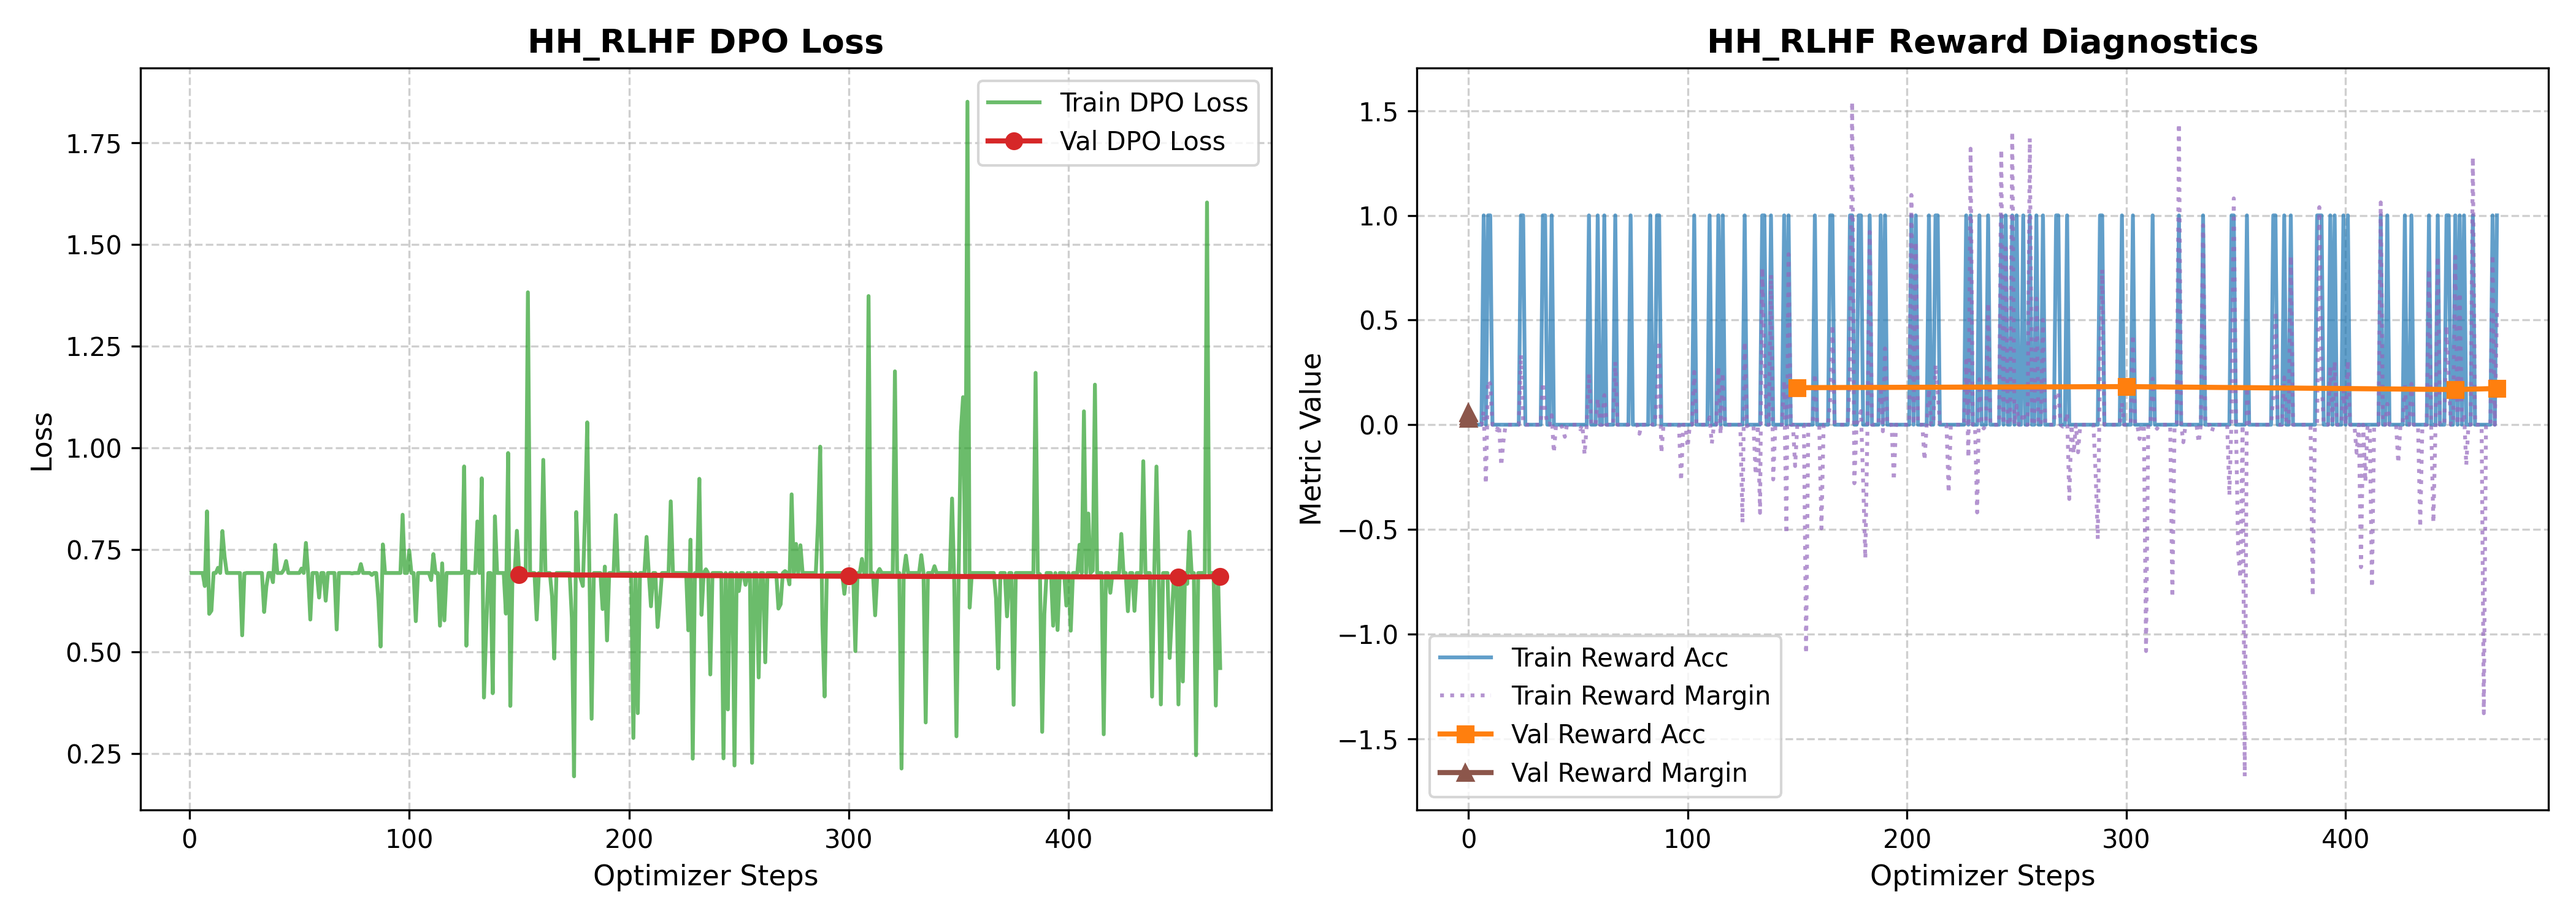
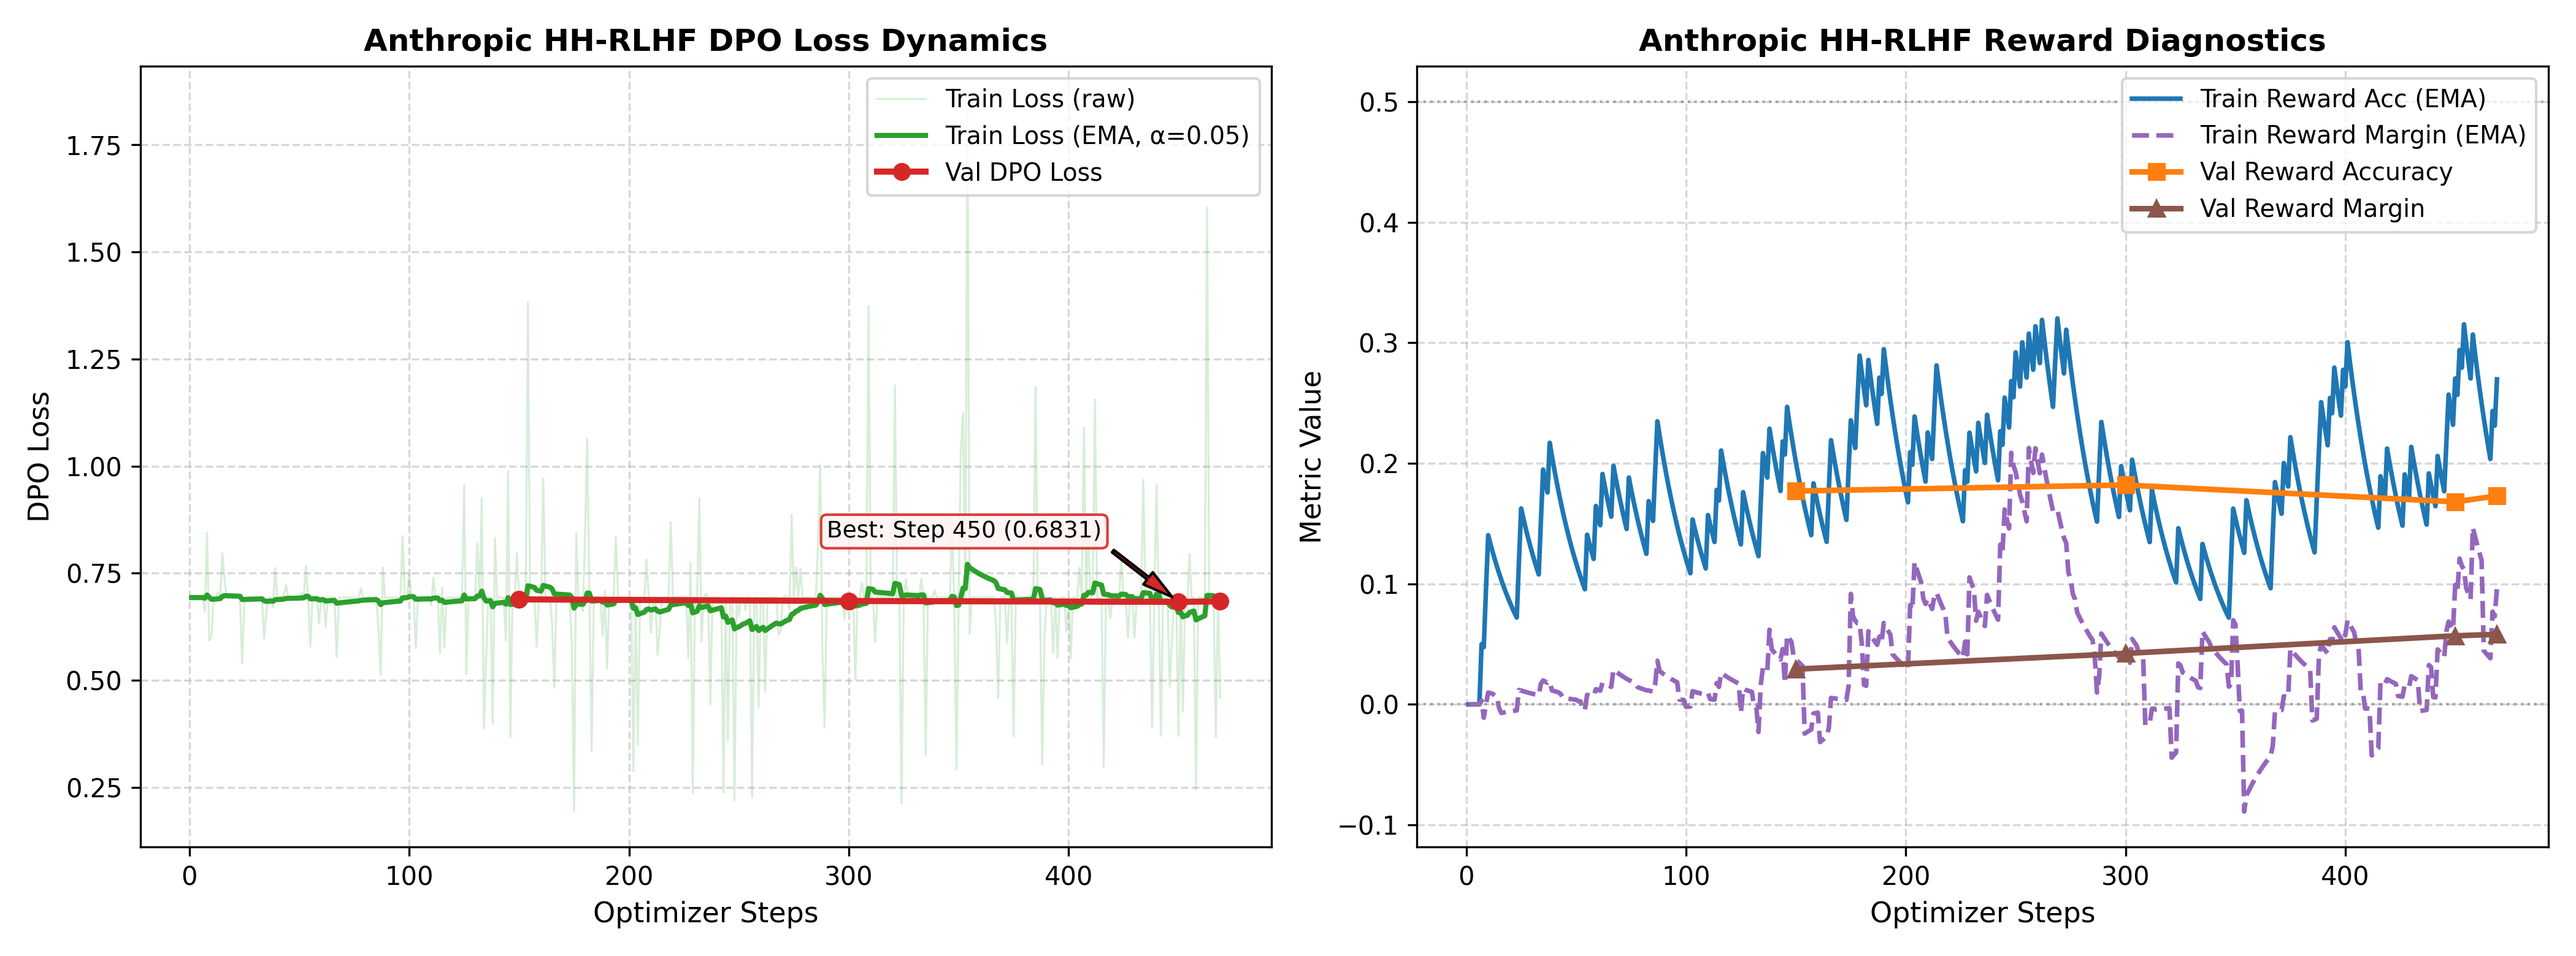
Fix plot_metrics val_margins bug and add EMA smoothing with checkpoint markers

diff --git a/scripts/plot_metrics.py b/scripts/plot_metrics.py
@@ -1,7 +1,9 @@
-"""Task 8: Plot training metrics for the final report.
+"""Task 8: Plot publication-quality training metrics for the final report.
 
-Generates high-resolution plots for SFT loss curves and DPO loss, reward
-accuracy, and reward margin curves.
+Generates high-resolution, readable plots for:
+1. SFT loss curves (with EMA smoothing and validation checkpoint markers).
+2. HH-RLHF DPO loss and reward diagnostics (accuracy & margin).
+3. UltraFeedback DPO loss and reward diagnostics (accuracy & margin).
 """
 
 from __future__ import annotations
@@ -11,6 +13,7 @@ import json
 from pathlib import Path
 
 import matplotlib.pyplot as plt
+import numpy as np
 
 
 def parse_args() -> argparse.Namespace:
@@ -30,6 +33,18 @@ def load_jsonl(path: Path) -> list[dict]:
     return records
 
 
+def compute_ema(values: list[float], alpha: float = 0.05) -> list[float]:
+    """Compute exponential moving average."""
+    if not values:
+        return []
+    ema = []
+    curr = values[0]
+    for v in values:
+        curr = alpha * v + (1.0 - alpha) * curr
+        ema.append(curr)
+    return ema
+
+
 def plot_sft(records: list[dict], out_dir: Path) -> None:
     if not records:
         print("No SFT records found.")
@@ -41,17 +56,36 @@ def plot_sft(records: list[dict], out_dir: Path) -> None:
     val_steps = [r["step"] for r in records if "val_loss" in r]
     val_losses = [r["val_loss"] for r in records if "val_loss" in r]
 
-    plt.figure(figsize=(8, 5), dpi=300)
-    if train_steps:
-        plt.plot(train_steps, train_losses, label="Train Loss", color="#1f77b4", alpha=0.8)
-    if val_steps:
-        plt.plot(val_steps, val_losses, label="Validation Loss", color="#ff7f0e", marker="o", linewidth=2)
+    plt.figure(figsize=(9, 5.2), dpi=300)
 
-    plt.title("Supervised Fine-Tuning (SFT) Loss Curve", fontsize=14, fontweight="bold")
-    plt.xlabel("Optimizer Steps", fontsize=12)
-    plt.ylabel("Loss (Negative Log-Likelihood)", fontsize=12)
-    plt.grid(True, linestyle="--", alpha=0.6)
-    plt.legend(fontsize=11)
+    if train_steps:
+        # Faint raw training loss
+        plt.plot(train_steps, train_losses, label="Train Loss (raw)", color="#1f77b4", alpha=0.18, linewidth=0.8)
+        # Smoothed EMA training loss
+        smoothed = compute_ema(train_losses, alpha=0.04)
+        plt.plot(train_steps, smoothed, label="Train Loss (EMA, α=0.04)", color="#1f77b4", linewidth=2.2)
+
+    if val_steps:
+        plt.plot(val_steps, val_losses, label="Validation Loss", color="#ff7f0e", marker="o", markersize=6, linewidth=2.4)
+        # Annotate final/best checkpoint
+        best_idx = int(np.argmin(val_losses))
+        best_step = val_steps[best_idx]
+        best_val = val_losses[best_idx]
+        plt.annotate(
+            f"Best Checkpoint (Step {best_step})\nVal Loss = {best_val:.2f}",
+            xy=(best_step, best_val),
+            xytext=(best_step - 250, best_val + 120),
+            arrowprops=dict(facecolor="#d62728", shrink=0.08, width=1.5, headwidth=7),
+            fontsize=9.5,
+            fontweight="semibold",
+            bbox=dict(boxstyle="round,pad=0.3", facecolor="#fff2f2", edgecolor="#d62728", alpha=0.9),
+        )
+
+    plt.title("Supervised Fine-Tuning (SFT) Convergence Curve", fontsize=13, fontweight="bold", pad=10)
+    plt.xlabel("Optimizer Steps", fontsize=11)
+    plt.ylabel("Sequence Negative Log-Likelihood (Summed)", fontsize=11)
+    plt.grid(True, linestyle="--", alpha=0.5)
+    plt.legend(fontsize=10, loc="upper right")
     plt.tight_layout()
 
     out_path = out_dir / "sft_loss_curve.png"
@@ -75,31 +109,56 @@ def plot_dpo(records: list[dict], track_name: str, out_dir: Path) -> None:
     val_accs = [r["val_reward_accuracy"] for r in records if "val_reward_accuracy" in r]
     val_margins = [r["val_reward_margin"] for r in records if "val_reward_margin" in r]
 
-    fig, (ax1, ax2) = plt.subplots(1, 2, figsize=(14, 5), dpi=300)
+    fig, (ax1, ax2) = plt.subplots(1, 2, figsize=(14, 5.2), dpi=300)
+    display_title = "Anthropic HH-RLHF" if "hh" in track_name.lower() else "UltraFeedback"
 
-    # Loss plot
+    # --- Subplot 1: DPO Loss ---
     if steps:
-        ax1.plot(steps, losses, label="Train DPO Loss", color="#2ca02c", alpha=0.7)
+        ax1.plot(steps, losses, label="Train Loss (raw)", color="#2ca02c", alpha=0.18, linewidth=0.8)
+        smoothed_losses = compute_ema(losses, alpha=0.05)
+        ax1.plot(steps, smoothed_losses, label="Train Loss (EMA, α=0.05)", color="#2ca02c", linewidth=2.0)
     if val_steps:
-        ax1.plot(val_steps, val_losses, label="Val DPO Loss", color="#d62728", marker="o", linewidth=2)
-    ax1.set_title(f"{track_name.upper()} DPO Loss", fontsize=13, fontweight="bold")
+        ax1.plot(val_steps, val_losses, label="Val DPO Loss", color="#d62728", marker="o", markersize=6, linewidth=2.4)
+        best_val_idx = int(np.argmin(val_losses))
+        best_step = val_steps[best_val_idx]
+        best_loss = val_losses[best_val_idx]
+        ax1.annotate(
+            f"Best: Step {best_step} ({best_loss:.4f})",
+            xy=(best_step, best_loss),
+            xytext=(best_step - 160, best_loss + 0.15),
+            arrowprops=dict(facecolor="#d62728", shrink=0.08, width=1.2, headwidth=6),
+            fontsize=9,
+            bbox=dict(boxstyle="round,pad=0.25", facecolor="#fff2f2", edgecolor="#d62728", alpha=0.9),
+        )
+
+    ax1.set_title(f"{display_title} DPO Loss Dynamics", fontsize=12, fontweight="bold")
     ax1.set_xlabel("Optimizer Steps", fontsize=11)
-    ax1.set_ylabel("Loss", fontsize=11)
-    ax1.grid(True, linestyle="--", alpha=0.6)
-    ax1.legend(fontsize=10)
+    ax1.set_ylabel("DPO Loss", fontsize=11)
+    ax1.grid(True, linestyle="--", alpha=0.5)
+    ax1.legend(fontsize=9.5, loc="upper right")
 
-    # Reward Diagnostics Plot
+    # --- Subplot 2: Reward Diagnostics (Accuracy & Margin) ---
     if steps:
-        ax2.plot(steps, accs, label="Train Reward Acc", color="#1f77b4", alpha=0.7)
-        ax2.plot(steps, margins, label="Train Reward Margin", color="#9467bd", alpha=0.7, linestyle=":")
+        # Smoothed train accuracy and margin
+        smoothed_accs = compute_ema(accs, alpha=0.05)
+        smoothed_margins = compute_ema(margins, alpha=0.05)
+        ax2.plot(steps, smoothed_accs, label="Train Reward Acc (EMA)", color="#1f77b4", linewidth=1.8)
+        ax2.plot(steps, smoothed_margins, label="Train Reward Margin (EMA)", color="#9467bd", linewidth=1.8, linestyle="--")
+
     if val_steps:
-        ax2.plot(val_steps, val_accs, label="Val Reward Acc", color="#ff7f0e", marker="s", linewidth=2)
-        ax2.plot(val_margins, val_margins, label="Val Reward Margin", color="#8c564b", marker="^", linewidth=2)
-    ax2.set_title(f"{track_name.upper()} Reward Diagnostics", fontsize=13, fontweight="bold")
+        ax2.plot(val_steps, val_accs, label="Val Reward Accuracy", color="#ff7f0e", marker="s", markersize=6, linewidth=2.2)
+        # CRUCIAL BUG FIX: plot against val_steps, NOT val_margins
+        ax2.plot(val_steps, val_margins, label="Val Reward Margin", color="#8c564b", marker="^", markersize=6, linewidth=2.2)
+
+    # Reference lines
+    ax2.axhline(0.0, color="#888888", linestyle=":", linewidth=1.0, alpha=0.7)
+    ax2.axhline(0.5, color="#888888", linestyle=":", linewidth=1.0, alpha=0.7)
+
+    ax2.set_title(f"{display_title} Reward Diagnostics", fontsize=12, fontweight="bold")
     ax2.set_xlabel("Optimizer Steps", fontsize=11)
     ax2.set_ylabel("Metric Value", fontsize=11)
-    ax2.grid(True, linestyle="--", alpha=0.6)
-    ax2.legend(fontsize=10)
+    ax2.grid(True, linestyle="--", alpha=0.5)
+    ax2.legend(fontsize=9.5, loc="best")
 
     plt.tight_layout()
     out_path = out_dir / f"dpo_{track_name}_curves.png"
